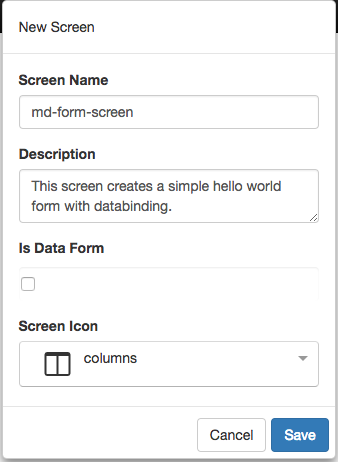
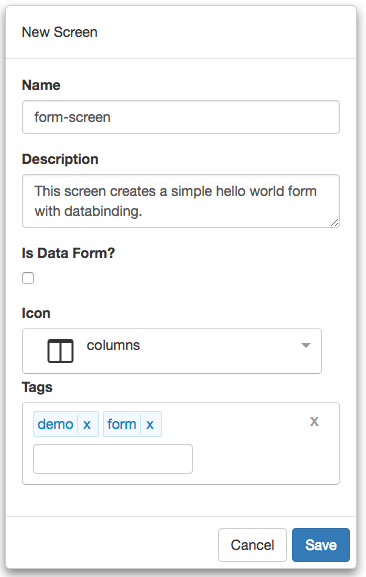
Worked on the form-screen tutorial.

diff --git a/docs/tutorials/form-screen.md b/docs/tutorials/form-screen.md
@@ -7,21 +7,33 @@ The following are the steps required to use **FrontEnd Creator** to create a sim
 
 Let's get started.
 
-1) Start by creating a project called, `Tutorial Project`. Add any description and left the rest of the properties with their default values. Your screen should look like the following:
+1) Start by clicking on *Manage Projects* from navigation menu on the left pane.
+
+![Tutorial Project](../assets/images/tutorials/tutorial-manage-projects.png)
+
+2) Next, click on the New button and name the project, `Tutorial Project`. Add any description and leave the rest of the properties with their default values. You can add any tags you like to the project. Your should have something that looks like the following:
 
 ![Tutorial Project](../assets/images/tutorials/tutorial-project.png)
 
-2) Once you click save, you will go to the Project Dashboard. We will go straight to the screens.
+3) Once you click save, will notice that the project will automatically be added to the Manage Projects table as well as the navigation menu on the left:
 
-![Tutorial Project Dashboard](../assets/images/tutorials/tutorial-project-dashboard.png)
+![Tutorial Project Added](../assets/images/tutorials/tutorial-project-added.png)
 
-3) Click on the plus button to add a new screen.
+4) Next, click on the Tutorial Project menu item from the navigation menu and select New Screen:
 
-  ![Tutorial Screen Properties](../assets/images/tutorials/tutorial-form-screen-properties.png)
+![Tutorial Project New Screen](../assets/images/tutorials/tutorial-project-new-screen.png)
 
-4) Now we are ready to start building our layout. There are a total of five elements that we will use. We will create each individually using an animation that you can follow along.
+5) Name the screen, `form-screen`. Add any description and pick any icon you wish for the screen. You can add any tags you like to the screen. Your should have something that looks like the following:
+
+![Tutorial Project New Screen Properties](../assets/images/tutorials/tutorial-form-screen-properties.png)
+
+6) Clicking save will navigate you to the designer.
+
+7) We are now ready to start building our layout. There are a total of five elements that we will use. We will create each individually using an animation that you can follow along.
 
 ![Tutorial Form Animation](../assets/images/tutorials/tutorial-form-screen.gif)
+
+{% youtube src="https://youtu.be/z-4SzNHKqRE" %}{% endyoutube %}
 
 Here is a recap of each of the elements that were added and settings. In each element we set specific classes and styles. The following is a breakdown for each element:
 
@@ -47,9 +59,9 @@ Element | Attribute | Mode | Action
 --- | --- | --- |---
 BUTTON | click | delegate | actions.sayHello()
 
-5) Save you work.
+8) Save you work.
 
-6) Click the Actions tab and enter the following code:
+9) Click the Actions tab and enter the following code:
 
 ```javascript
 function (that, V) {
@@ -66,9 +78,9 @@ function (that, V) {
 
 **Note** We use `that` as a reference to the parent view model.
 
-7) Save your work.
+10) Save your work.
 
-8) Click the Data tab and enter the following JSON:
+11) Click the Data tab and enter the following JSON:
 
 ```json
 {
@@ -78,9 +90,9 @@ function (that, V) {
 }
 ```
 
-9) Save your work.
+12) Save your work.
 
-10) Click on the Preview button and you should see something like the following:
+13) Click on the Preview button and you should see something like the following:
 
 ![Tutorial Flexbox Preview](../assets/images/tutorials/tutorial-form-preview.png)
 
